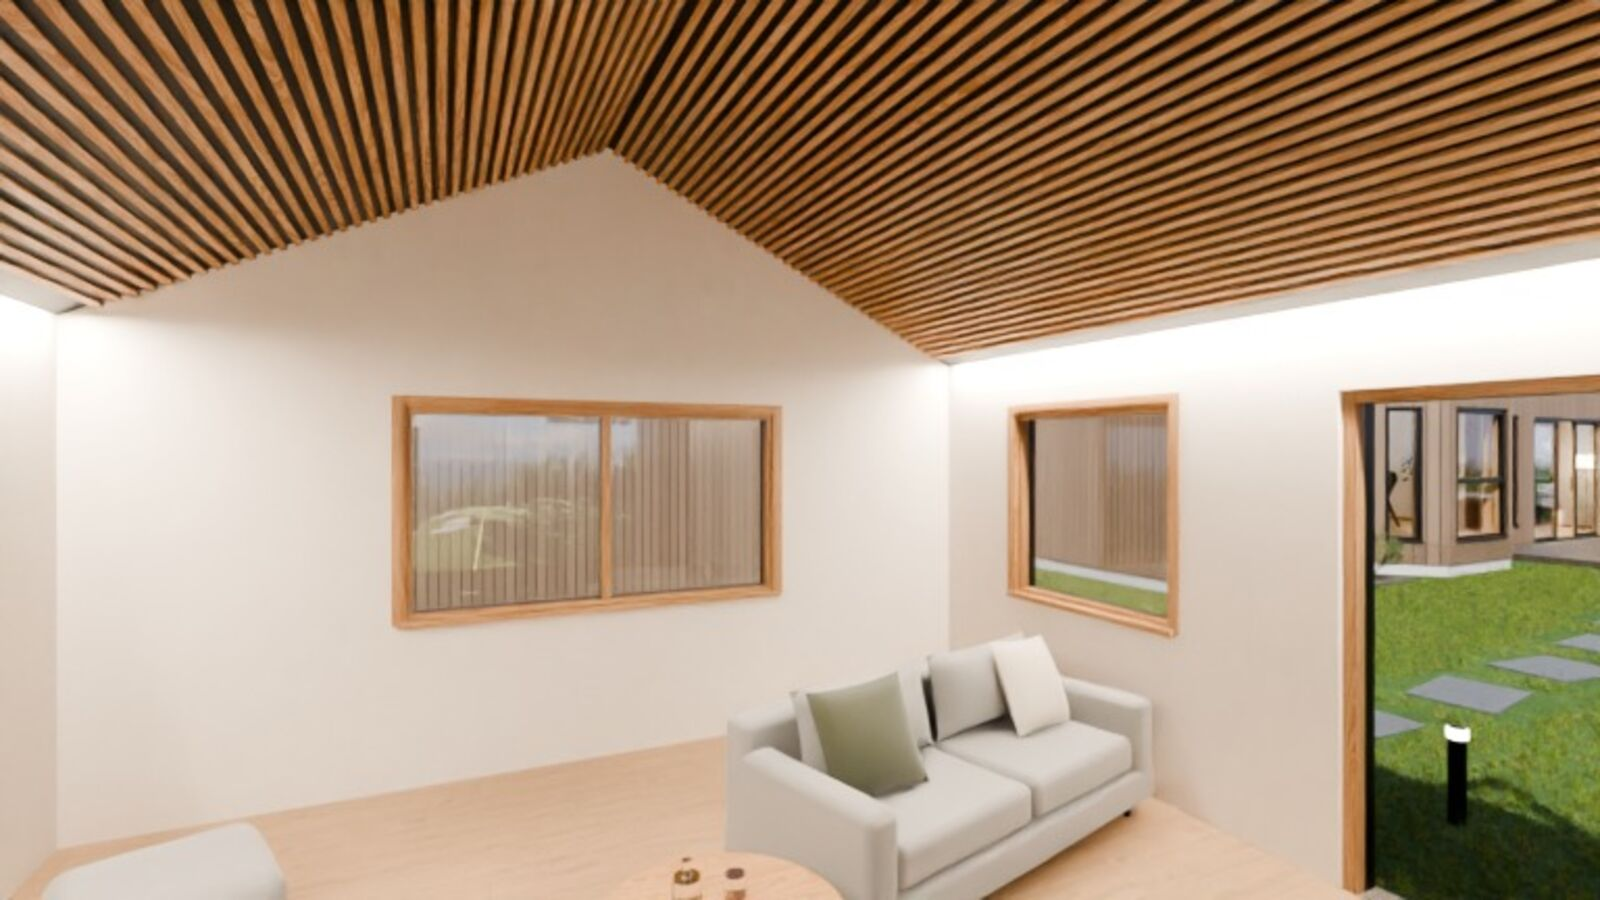
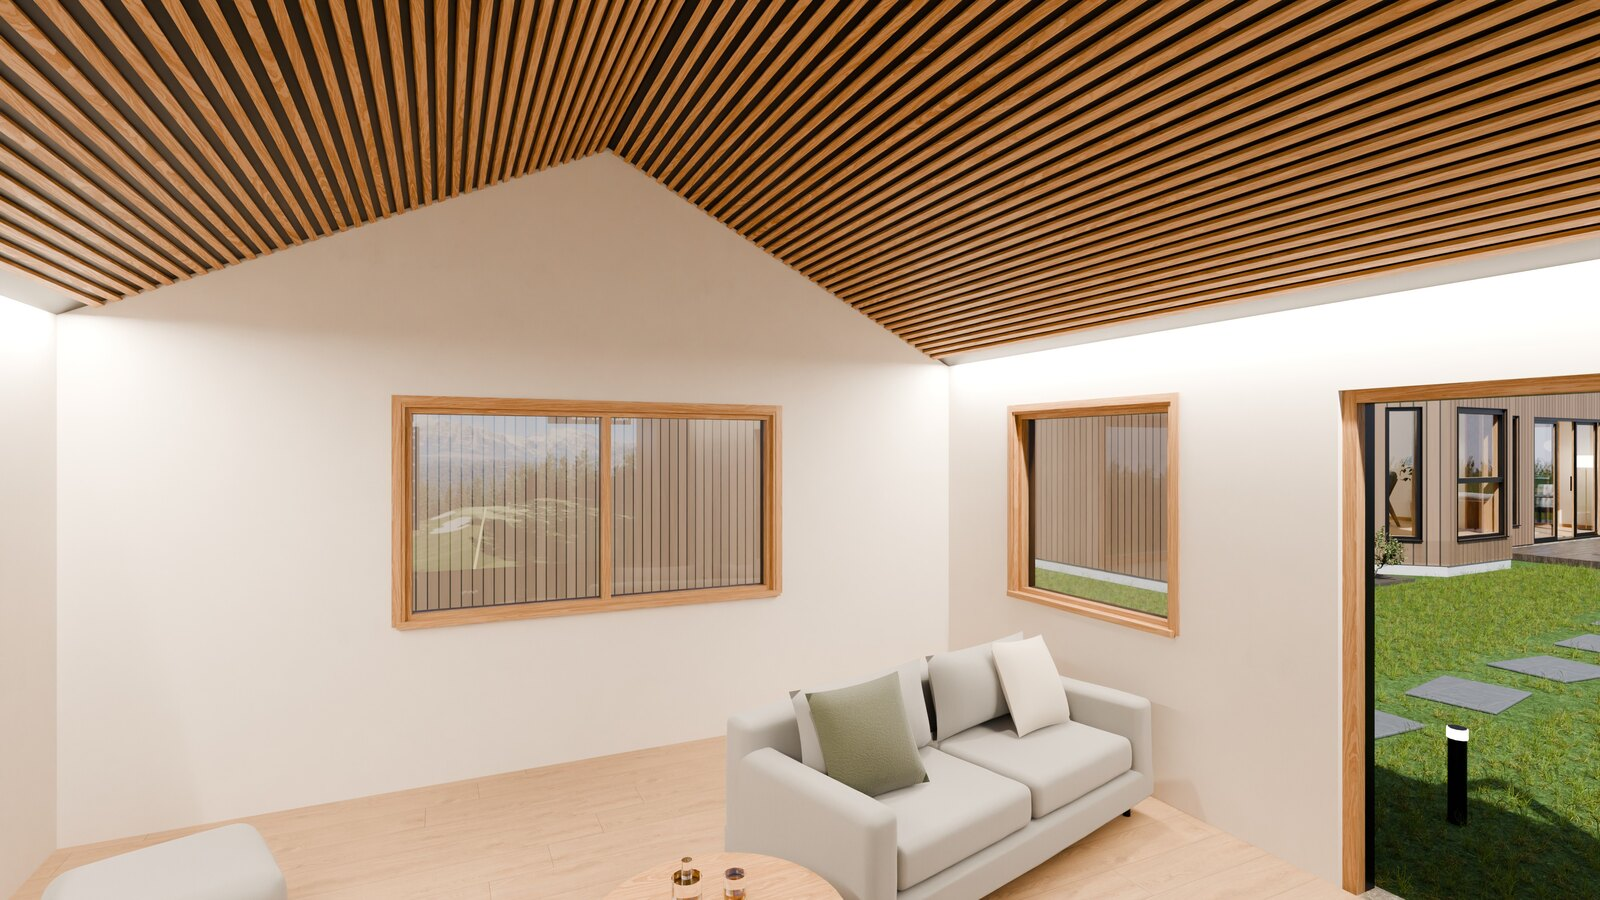
Boligannonse: 25 av 25 bilder i 4K

diff --git a/annonse/index.html b/annonse/index.html
@@ -103,7 +103,7 @@ img { max-width: 100%; }
 
 <div class="ark">
   <header class="topp">
-    <div class="merke"><strong>3D-visualisering av planlagt ombygging</strong><span>22 av 25 bilder er ferdige i 4K, resten er forhåndsvisninger</span></div>
+    <div class="merke"><strong>3D-visualisering av planlagt ombygging</strong><span>25 bilder i 4K</span></div>
     <h1>Enebolig med golfanneks og oppvarmet garasje</h1>
     <figure class="bilde hero"><button type="button" class="apne" data-i="0" aria-label="Åpne bildet: Fasaden mot nord med overbygd inngang"><img src="img/01-fasade.jpg" width="1600" height="900" alt="Fasaden mot nord med overbygd inngang"></button><figcaption>Fasaden mot nord med overbygd inngang</figcaption></figure>
     <p class="ingress">Et hus over tre plan med stue og kjøkken mot hagen, hovedsoverom med eget bad, tre barnerom og loft. I hagen står et anneks med golfsimulator. Trykk på et bilde for å se det i full oppløsning. På mobil fyller bildet hele skjermen når du snur den, og du blar ved å sveipe.</p>
@@ -113,10 +113,10 @@ img { max-width: 100%; }
 
 <section id="ute" class="del"><div class="delhode"><h2>Huset</h2><p>Brun stående kledning, sort ståltak og eik rundt alle åpninger. Overbygd inngang mot nord, dobbel garasje ved siden av.</p></div><div class="galleri"><figure class="bilde stor"><button type="button" class="apne" data-i="1" aria-label="Åpne bildet: Huset, garasjen og annekset sett fra nord"><img src="img/02-oversikt.jpg" width="1600" height="900" alt="Huset, garasjen og annekset sett fra nord" loading="lazy"></button><figcaption>Huset, garasjen og annekset sett fra nord</figcaption></figure></div></section>
 <section id="forste" class="del"><div class="delhode"><h2>Første etasje</h2><p>Stue, TV-stue, spisestue og kjøkken ligger på rekke mot hagen i sør. Tilbygget med kjøkken og spisestue ligger litt lavere enn stua og har 2,9 meter under taket.</p></div><div class="galleri"><figure class="bilde stor"><button type="button" class="apne" data-i="2" aria-label="Åpne bildet: Stua med karnapp mot hagen"><img src="img/04-stue.jpg" width="1600" height="900" alt="Stua med karnapp mot hagen" loading="lazy"></button><figcaption>Stua med karnapp mot hagen</figcaption></figure><figure class="bilde"><button type="button" class="apne" data-i="3" aria-label="Åpne bildet: Sofagruppa, med TV-stua bak glassveggen til venstre"><img src="img/05-stue-sofa.jpg" width="1600" height="900" alt="Sofagruppa, med TV-stua bak glassveggen til venstre" loading="lazy"></button><figcaption>Sofagruppa, med TV-stua bak glassveggen til venstre</figcaption></figure><figure class="bilde"><button type="button" class="apne" data-i="4" aria-label="Åpne bildet: Spisestue med rundt bord til åtte og skyvedører ut til terrassen"><img src="img/07-spisestue.jpg" width="1600" height="900" alt="Spisestue med rundt bord til åtte og skyvedører ut til terrassen" loading="lazy"></button><figcaption>Spisestue med rundt bord til åtte og skyvedører ut til terrassen</figcaption></figure><figure class="bilde"><button type="button" class="apne" data-i="5" aria-label="Åpne bildet: Kjøkken med mørk brune fronter og øy i Dekton"><img src="img/08-kjokken.jpg" width="1600" height="900" alt="Kjøkken med mørk brune fronter og øy i Dekton" loading="lazy"></button><figcaption>Kjøkken med mørk brune fronter og øy i Dekton</figcaption></figure><figure class="bilde"><button type="button" class="apne" data-i="6" aria-label="Åpne bildet: Kjøkkenøya har usynlig induksjon under steinplata"><img src="img/09-kjokken-oy.jpg" width="1600" height="900" alt="Kjøkkenøya har usynlig induksjon under steinplata" loading="lazy"></button><figcaption>Kjøkkenøya har usynlig induksjon under steinplata</figcaption></figure><figure class="bilde"><button type="button" class="apne" data-i="7" aria-label="Åpne bildet: TV-stua kan stenges av med glassfoldevegg"><img src="img/06-tvstue.jpg" width="1600" height="900" alt="TV-stua kan stenges av med glassfoldevegg" loading="lazy"></button><figcaption>TV-stua kan stenges av med glassfoldevegg</figcaption></figure><figure class="bilde"><button type="button" class="apne" data-i="8" aria-label="Åpne bildet: Entréen sett fra hoveddøra, med stua innerst"><img src="img/03-entre.jpg" width="1600" height="900" alt="Entréen sett fra hoveddøra, med stua innerst" loading="lazy"></button><figcaption>Entréen sett fra hoveddøra, med stua innerst</figcaption></figure></div></section>
-<section id="andre" class="del"><div class="delhode"><h2>Andre etasje</h2><p>Hovedsoverom med eget bad og walk-in, tre barnerom, barnebad, vaskerom og hjemmekontor.</p></div><div class="galleri"><figure class="bilde stor"><button type="button" class="apne" data-i="9" aria-label="Åpne bildet: Hovedsoverommet, med loftstrappa utenfor døra"><img src="img/10-hovedsoverom.jpg" width="1600" height="900" alt="Hovedsoverommet, med loftstrappa utenfor døra" loading="lazy"></button><figcaption>Hovedsoverommet, med loftstrappa utenfor døra</figcaption></figure><figure class="bilde"><button type="button" class="apne" data-i="10" aria-label="Åpne bildet: Bad til hovedsoverommet med dusj under skråtaket"><img src="img/11-masterbad.jpg" width="1600" height="900" alt="Bad til hovedsoverommet med dusj under skråtaket" loading="lazy"></button><figcaption>Bad til hovedsoverommet med dusj under skråtaket</figcaption></figure><figure class="bilde"><button type="button" class="apne" data-i="11" aria-label="Åpne bildet: Walk-in med plassbygd innredning i eik"><img src="img/12-walkin.jpg" width="1600" height="900" alt="Walk-in med plassbygd innredning i eik" loading="lazy"></button><figcaption>Walk-in med plassbygd innredning i eik</figcaption></figure><figure class="bilde"><button type="button" class="apne" data-i="12" aria-label="Åpne bildet: Barnerom med gulvhøyt vindu mot vest"><img src="img/13-barnerom2.jpg" width="1600" height="900" alt="Barnerom med gulvhøyt vindu mot vest" loading="lazy"></button><figcaption>Barnerom med gulvhøyt vindu mot vest</figcaption></figure><figure class="bilde"><button type="button" class="apne" data-i="13" aria-label="Åpne bildet: Barnerom med lenestol ved vinduet"><img src="img/14-barnerom3.jpg" width="1600" height="900" alt="Barnerom med lenestol ved vinduet" loading="lazy"></button><figcaption>Barnerom med lenestol ved vinduet</figcaption></figure><figure class="bilde"><button type="button" class="apne" data-i="14" aria-label="Åpne bildet: Barnerom med takvinduer mot sør"><img src="img/15-barnerom1.jpg" width="1600" height="900" alt="Barnerom med takvinduer mot sør" loading="lazy"></button><figcaption>Barnerom med takvinduer mot sør</figcaption></figure><figure class="bilde"><button type="button" class="apne" data-i="15" aria-label="Åpne bildet: Barnebad med dobbel servant og takvinduer"><img src="img/25-barnebad.jpg" width="1600" height="900" alt="Barnebad med dobbel servant og takvinduer" loading="lazy"><span class="lav">Lav kvalitet, 4K kommer</span></button><figcaption>Barnebad med dobbel servant og takvinduer</figcaption></figure><figure class="bilde"><button type="button" class="apne" data-i="16" aria-label="Åpne bildet: Hjemmekontor i nisjen ved trappa"><img src="img/16-kontor.jpg" width="1600" height="900" alt="Hjemmekontor i nisjen ved trappa" loading="lazy"></button><figcaption>Hjemmekontor i nisjen ved trappa</figcaption></figure></div></section>
+<section id="andre" class="del"><div class="delhode"><h2>Andre etasje</h2><p>Hovedsoverom med eget bad og walk-in, tre barnerom, barnebad, vaskerom og hjemmekontor.</p></div><div class="galleri"><figure class="bilde stor"><button type="button" class="apne" data-i="9" aria-label="Åpne bildet: Hovedsoverommet, med loftstrappa utenfor døra"><img src="img/10-hovedsoverom.jpg" width="1600" height="900" alt="Hovedsoverommet, med loftstrappa utenfor døra" loading="lazy"></button><figcaption>Hovedsoverommet, med loftstrappa utenfor døra</figcaption></figure><figure class="bilde"><button type="button" class="apne" data-i="10" aria-label="Åpne bildet: Bad til hovedsoverommet med dusj under skråtaket"><img src="img/11-masterbad.jpg" width="1600" height="900" alt="Bad til hovedsoverommet med dusj under skråtaket" loading="lazy"></button><figcaption>Bad til hovedsoverommet med dusj under skråtaket</figcaption></figure><figure class="bilde"><button type="button" class="apne" data-i="11" aria-label="Åpne bildet: Walk-in med plassbygd innredning i eik"><img src="img/12-walkin.jpg" width="1600" height="900" alt="Walk-in med plassbygd innredning i eik" loading="lazy"></button><figcaption>Walk-in med plassbygd innredning i eik</figcaption></figure><figure class="bilde"><button type="button" class="apne" data-i="12" aria-label="Åpne bildet: Barnerom med gulvhøyt vindu mot vest"><img src="img/13-barnerom2.jpg" width="1600" height="900" alt="Barnerom med gulvhøyt vindu mot vest" loading="lazy"></button><figcaption>Barnerom med gulvhøyt vindu mot vest</figcaption></figure><figure class="bilde"><button type="button" class="apne" data-i="13" aria-label="Åpne bildet: Barnerom med lenestol ved vinduet"><img src="img/14-barnerom3.jpg" width="1600" height="900" alt="Barnerom med lenestol ved vinduet" loading="lazy"></button><figcaption>Barnerom med lenestol ved vinduet</figcaption></figure><figure class="bilde"><button type="button" class="apne" data-i="14" aria-label="Åpne bildet: Barnerom med takvinduer mot sør"><img src="img/15-barnerom1.jpg" width="1600" height="900" alt="Barnerom med takvinduer mot sør" loading="lazy"></button><figcaption>Barnerom med takvinduer mot sør</figcaption></figure><figure class="bilde"><button type="button" class="apne" data-i="15" aria-label="Åpne bildet: Barnebad med dobbel servant og takvinduer"><img src="img/25-barnebad.jpg" width="1600" height="900" alt="Barnebad med dobbel servant og takvinduer" loading="lazy"></button><figcaption>Barnebad med dobbel servant og takvinduer</figcaption></figure><figure class="bilde"><button type="button" class="apne" data-i="16" aria-label="Åpne bildet: Hjemmekontor i nisjen ved trappa"><img src="img/16-kontor.jpg" width="1600" height="900" alt="Hjemmekontor i nisjen ved trappa" loading="lazy"></button><figcaption>Hjemmekontor i nisjen ved trappa</figcaption></figure></div></section>
 <section id="loft" class="del"><div class="delhode"><h2>Loftet</h2><p>Loftet har gjesterom i vest og et stort hobbyrom i øst, med tre takvinduer mot nord.</p></div><div class="galleri"><figure class="bilde stor"><button type="button" class="apne" data-i="17" aria-label="Åpne bildet: Hobbyrommet på loftet"><img src="img/17-loft.jpg" width="1600" height="900" alt="Hobbyrommet på loftet" loading="lazy"></button><figcaption>Hobbyrommet på loftet</figcaption></figure><figure class="bilde"><button type="button" class="apne" data-i="18" aria-label="Åpne bildet: Gjesterommet under mønet"><img src="img/18-loft-gjest.jpg" width="1600" height="900" alt="Gjesterommet under mønet" loading="lazy"></button><figcaption>Gjesterommet under mønet</figcaption></figure></div></section>
 <section id="hage" class="del"><div class="delhode"><h2>Terrasse og hage</h2><p>Terrassen ligger utenfor spisestua og fortsetter rundt hjørnet til kjøkkendøra. Hagen er skjermet av hekk.</p></div><div class="galleri"><figure class="bilde stor"><button type="button" class="apne" data-i="19" aria-label="Åpne bildet: Terrassen sett fra plenen"><img src="img/19-terrasse.jpg" width="1600" height="900" alt="Terrassen sett fra plenen" loading="lazy"></button><figcaption>Terrassen sett fra plenen</figcaption></figure><figure class="bilde"><button type="button" class="apne" data-i="20" aria-label="Åpne bildet: Sofagruppe på terrassen, annekset innerst i hagen"><img src="img/20-terrasse-ute.jpg" width="1600" height="900" alt="Sofagruppe på terrassen, annekset innerst i hagen" loading="lazy"></button><figcaption>Sofagruppe på terrassen, annekset innerst i hagen</figcaption></figure><figure class="bilde"><button type="button" class="apne" data-i="21" aria-label="Åpne bildet: Hellegang over plenen til annekset"><img src="img/21-hage-anneks.jpg" width="1600" height="900" alt="Hellegang over plenen til annekset" loading="lazy"></button><figcaption>Hellegang over plenen til annekset</figcaption></figure></div></section>
-<section id="anneks" class="del"><div class="delhode"><h2>Anneks og garasje</h2><p>Annekset på 40 kvadratmeter har golfsimulator med lerret fra vegg til vegg og en liten lounge. Garasjen er dobbel og oppvarmet.</p></div><div class="galleri"><figure class="bilde stor"><button type="button" class="apne" data-i="22" aria-label="Åpne bildet: Golfsimulatoren i annekset"><img src="img/22-golf.jpg" width="1600" height="900" alt="Golfsimulatoren i annekset" loading="lazy"></button><figcaption>Golfsimulatoren i annekset</figcaption></figure><figure class="bilde"><button type="button" class="apne" data-i="23" aria-label="Åpne bildet: Loungen i annekset, under himling av eikespiler"><img src="img/23-golf-lounge.jpg" width="1600" height="900" alt="Loungen i annekset, under himling av eikespiler" loading="lazy"><span class="lav">Lav kvalitet, 4K kommer</span></button><figcaption>Loungen i annekset, under himling av eikespiler</figcaption></figure><figure class="bilde"><button type="button" class="apne" data-i="24" aria-label="Åpne bildet: Oppvarmet garasje med arbeidsbenk og skapvegg"><img src="img/24-garasje.jpg" width="1600" height="900" alt="Oppvarmet garasje med arbeidsbenk og skapvegg" loading="lazy"><span class="lav">Lav kvalitet, 4K kommer</span></button><figcaption>Oppvarmet garasje med arbeidsbenk og skapvegg</figcaption></figure></div></section>
+<section id="anneks" class="del"><div class="delhode"><h2>Anneks og garasje</h2><p>Annekset på 40 kvadratmeter har golfsimulator med lerret fra vegg til vegg og en liten lounge. Garasjen er dobbel og oppvarmet.</p></div><div class="galleri"><figure class="bilde stor"><button type="button" class="apne" data-i="22" aria-label="Åpne bildet: Golfsimulatoren i annekset"><img src="img/22-golf.jpg" width="1600" height="900" alt="Golfsimulatoren i annekset" loading="lazy"></button><figcaption>Golfsimulatoren i annekset</figcaption></figure><figure class="bilde"><button type="button" class="apne" data-i="23" aria-label="Åpne bildet: Loungen i annekset, under himling av eikespiler"><img src="img/23-golf-lounge.jpg" width="1600" height="900" alt="Loungen i annekset, under himling av eikespiler" loading="lazy"></button><figcaption>Loungen i annekset, under himling av eikespiler</figcaption></figure><figure class="bilde"><button type="button" class="apne" data-i="24" aria-label="Åpne bildet: Oppvarmet garasje med arbeidsbenk og skapvegg"><img src="img/24-garasje.jpg" width="1600" height="900" alt="Oppvarmet garasje med arbeidsbenk og skapvegg" loading="lazy"></button><figcaption>Oppvarmet garasje med arbeidsbenk og skapvegg</figcaption></figure></div></section>
 
   <section class="del" id="valg">
     <div class="delhode"><h2>Materialer og løsninger</h2><p>Valgene som går igjen i hele huset.</p></div>
@@ -134,7 +134,7 @@ img { max-width: 100%; }
 
 <script>
 (function () {
-  var data = [["01-fasade","Fasaden mot nord med overbygd inngang",1],["02-oversikt","Huset, garasjen og annekset sett fra nord",1],["04-stue","Stua med karnapp mot hagen",1],["05-stue-sofa","Sofagruppa, med TV-stua bak glassveggen til venstre",1],["07-spisestue","Spisestue med rundt bord til åtte og skyvedører ut til terrassen",1],["08-kjokken","Kjøkken med mørk brune fronter og øy i Dekton",1],["09-kjokken-oy","Kjøkkenøya har usynlig induksjon under steinplata",1],["06-tvstue","TV-stua kan stenges av med glassfoldevegg",1],["03-entre","Entréen sett fra hoveddøra, med stua innerst",1],["10-hovedsoverom","Hovedsoverommet, med loftstrappa utenfor døra",1],["11-masterbad","Bad til hovedsoverommet med dusj under skråtaket",1],["12-walkin","Walk-in med plassbygd innredning i eik",1],["13-barnerom2","Barnerom med gulvhøyt vindu mot vest",1],["14-barnerom3","Barnerom med lenestol ved vinduet",1],["15-barnerom1","Barnerom med takvinduer mot sør",1],["25-barnebad","Barnebad med dobbel servant og takvinduer",0],["16-kontor","Hjemmekontor i nisjen ved trappa",1],["17-loft","Hobbyrommet på loftet",1],["18-loft-gjest","Gjesterommet under mønet",1],["19-terrasse","Terrassen sett fra plenen",1],["20-terrasse-ute","Sofagruppe på terrassen, annekset innerst i hagen",1],["21-hage-anneks","Hellegang over plenen til annekset",1],["22-golf","Golfsimulatoren i annekset",1],["23-golf-lounge","Loungen i annekset, under himling av eikespiler",0],["24-garasje","Oppvarmet garasje med arbeidsbenk og skapvegg",0]];
+  var data = [["01-fasade","Fasaden mot nord med overbygd inngang",1],["02-oversikt","Huset, garasjen og annekset sett fra nord",1],["04-stue","Stua med karnapp mot hagen",1],["05-stue-sofa","Sofagruppa, med TV-stua bak glassveggen til venstre",1],["07-spisestue","Spisestue med rundt bord til åtte og skyvedører ut til terrassen",1],["08-kjokken","Kjøkken med mørk brune fronter og øy i Dekton",1],["09-kjokken-oy","Kjøkkenøya har usynlig induksjon under steinplata",1],["06-tvstue","TV-stua kan stenges av med glassfoldevegg",1],["03-entre","Entréen sett fra hoveddøra, med stua innerst",1],["10-hovedsoverom","Hovedsoverommet, med loftstrappa utenfor døra",1],["11-masterbad","Bad til hovedsoverommet med dusj under skråtaket",1],["12-walkin","Walk-in med plassbygd innredning i eik",1],["13-barnerom2","Barnerom med gulvhøyt vindu mot vest",1],["14-barnerom3","Barnerom med lenestol ved vinduet",1],["15-barnerom1","Barnerom med takvinduer mot sør",1],["25-barnebad","Barnebad med dobbel servant og takvinduer",1],["16-kontor","Hjemmekontor i nisjen ved trappa",1],["17-loft","Hobbyrommet på loftet",1],["18-loft-gjest","Gjesterommet under mønet",1],["19-terrasse","Terrassen sett fra plenen",1],["20-terrasse-ute","Sofagruppe på terrassen, annekset innerst i hagen",1],["21-hage-anneks","Hellegang over plenen til annekset",1],["22-golf","Golfsimulatoren i annekset",1],["23-golf-lounge","Loungen i annekset, under himling av eikespiler",1],["24-garasje","Oppvarmet garasje med arbeidsbenk og skapvegg",1]];
   var lys = document.getElementById("lys"), rom = document.getElementById("lys-rom"), bilde = document.getElementById("lys-bilde");
   var tekst = document.getElementById("lys-tekst"), teller = document.getElementById("lys-teller"), zoom = document.getElementById("lys-zoom");
   var i = 0, sist = null;
